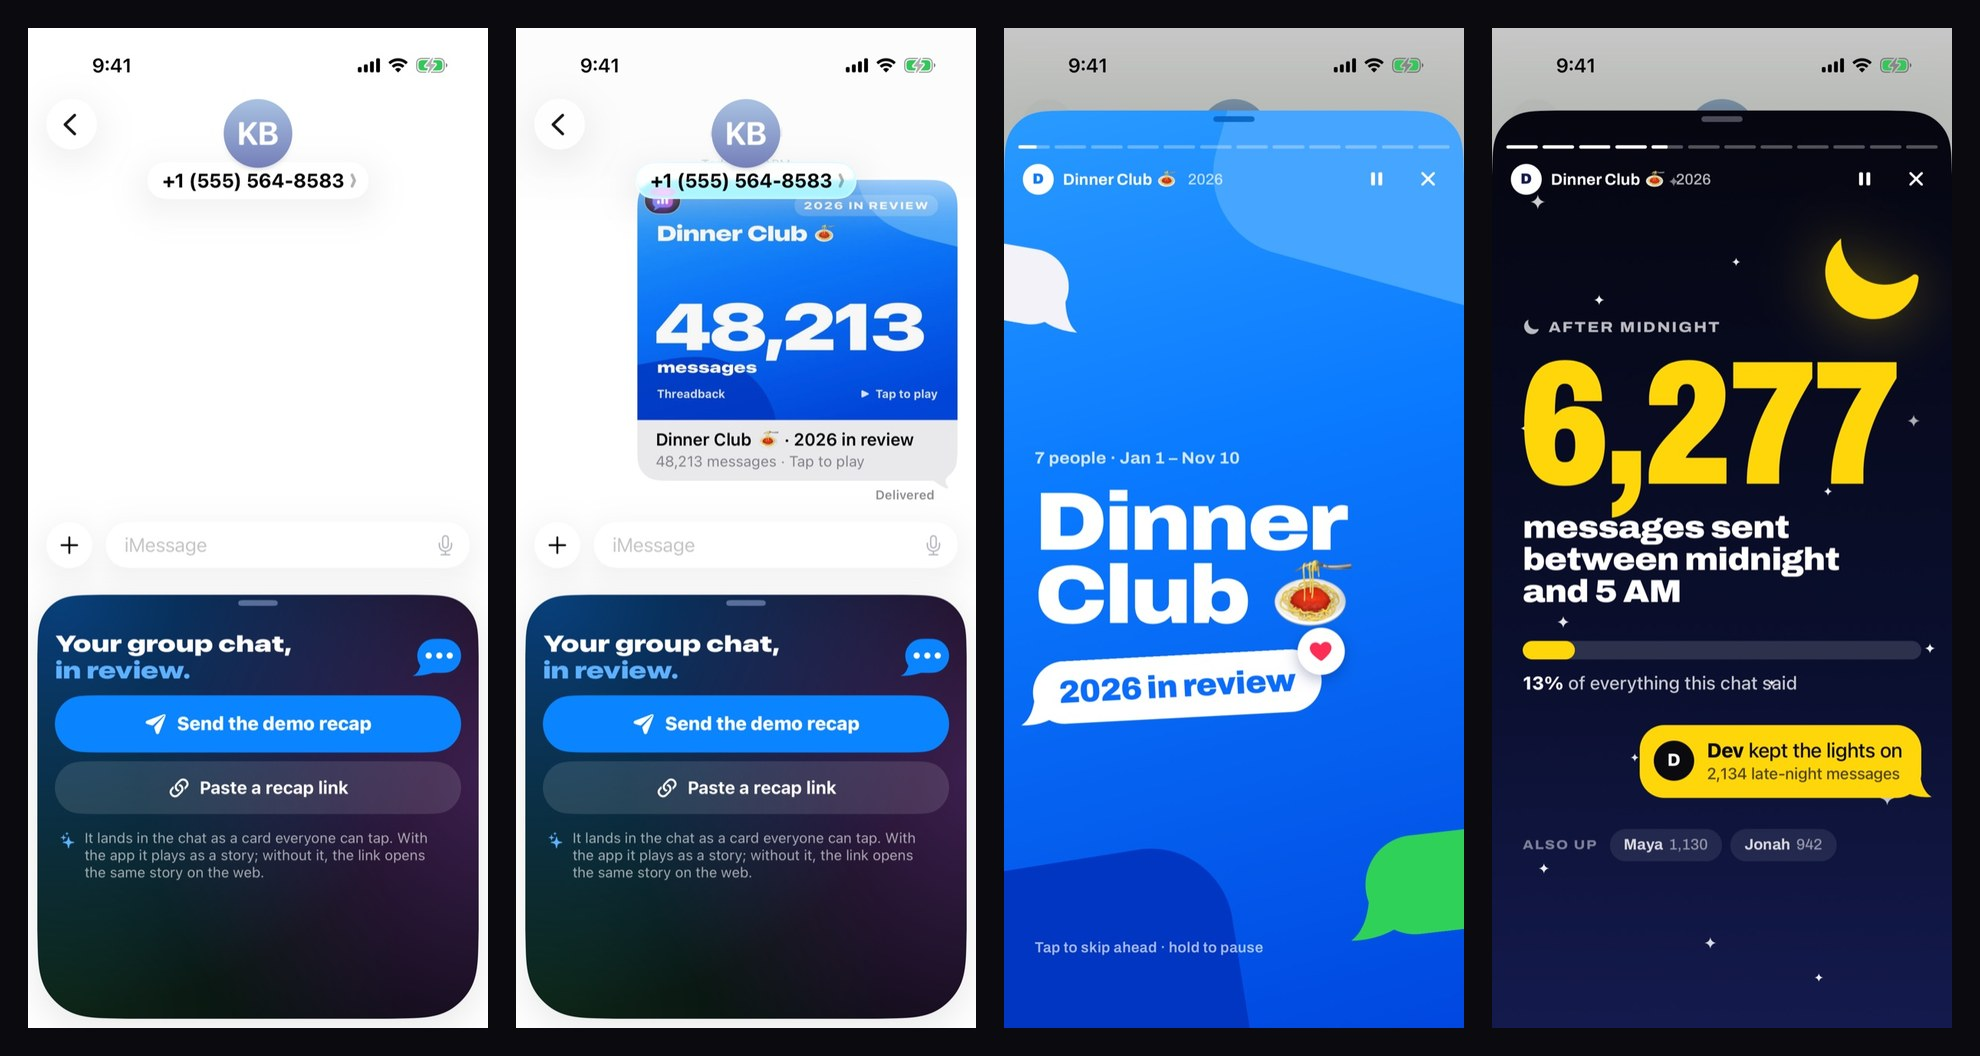
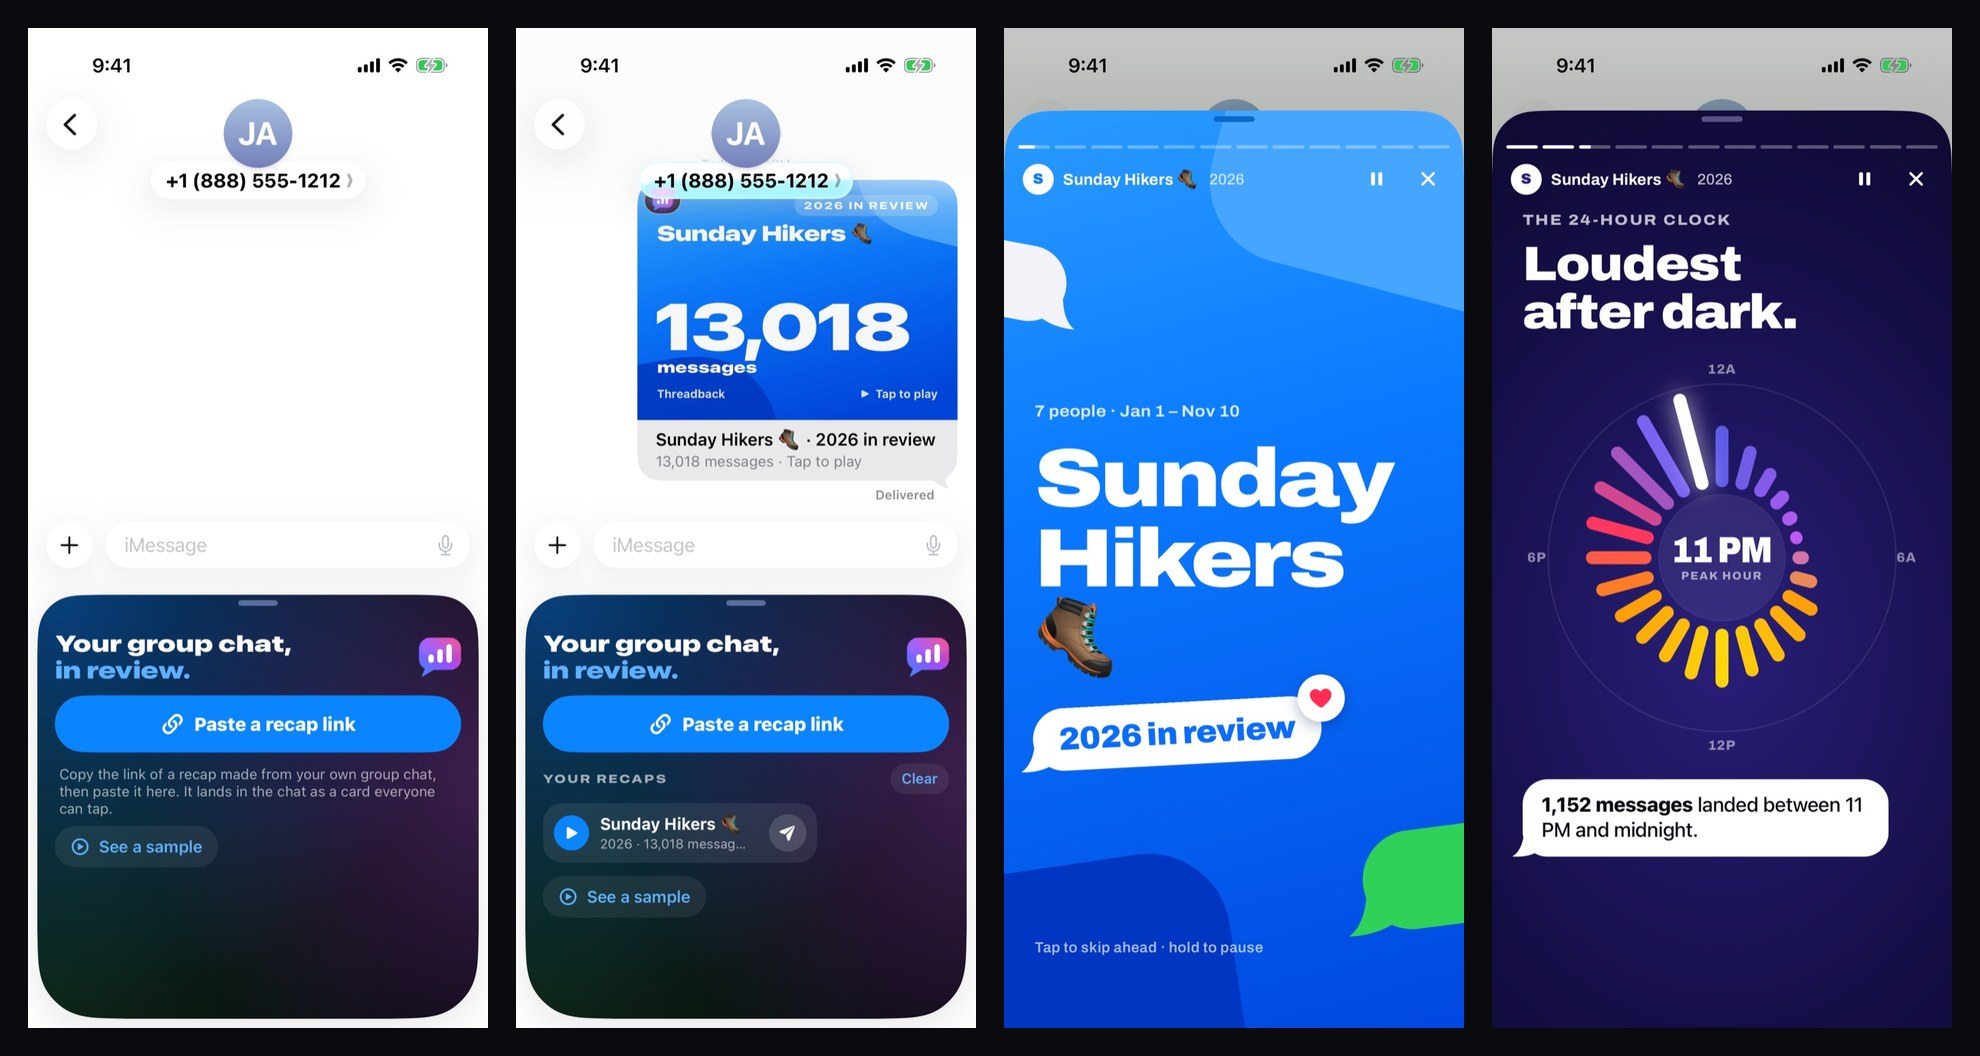
Story: a new recap in the address starts once; README shows the final Messages flow
Changing the part after the # on an open page fired two events and started
the story twice. Back-navigation still always routes; the second event is
ignored when the address has already been acted on. The README's Messages
picture is rebuilt from the final Simulator screenshots (paste a recap
link, card delivered, story playing inside Messages).

Claude-Session: https://claude.ai/code/session_01HsT3WJgxawzje31yUV686t

diff --git a/web/js/app.js b/web/js/app.js
@@ -173,6 +173,17 @@
     } catch (e) { /* leave the address as it is */ }
   }
 
+  var routedHref = null;    // the address the page last acted on
+
+  function routeHere() {
+    route();
+    routedHref = root.location.href;
+  }
+
+  function onAddress() {
+    if (root.location.href !== routedHref) routeHere();
+  }
+
   function route() {
     var loc = Codec.parseLocation(root.location);
     // Embed mode needs the native shell on the other end of the bridge. A plain browser
@@ -242,13 +253,16 @@
     if (demoBtn) demoBtn.addEventListener('click', onPlayDemo);
     if (art) art.addEventListener('click', onPlayDemo);
     if (again) again.addEventListener('click', onPlayRecap);
-    root.addEventListener('popstate', function () { pushed = false; route(); });
-    root.addEventListener('hashchange', route);
+    // A change of the part after the # fires both popstate and hashchange, in that order.
+    // popstate always routes (it is also how "back" from the demo arrives); hashchange only
+    // routes when nothing has acted on that address yet, or the story would start twice.
+    root.addEventListener('popstate', function () { pushed = false; routeHere(); });
+    root.addEventListener('hashchange', onAddress);
     root.addEventListener('resize', sizeError);
-    route();
+    routeHere();
     html.classList.add('is-ready');
   }
 
-  root.WrappedApp = { route: route, load: load, showLanding: showLanding };
+  root.WrappedApp = { route: routeHere, load: load, showLanding: showLanding };
   init();
 })(window);
